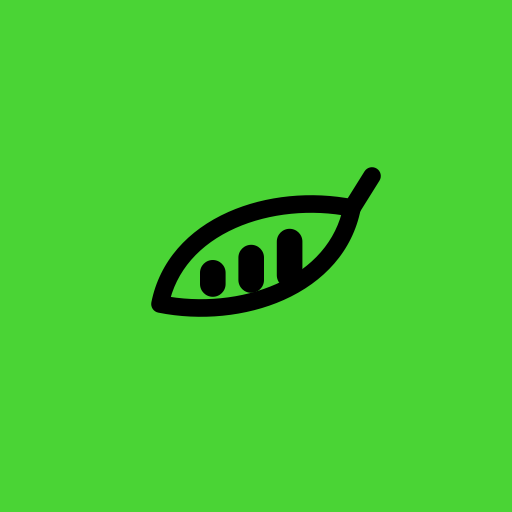
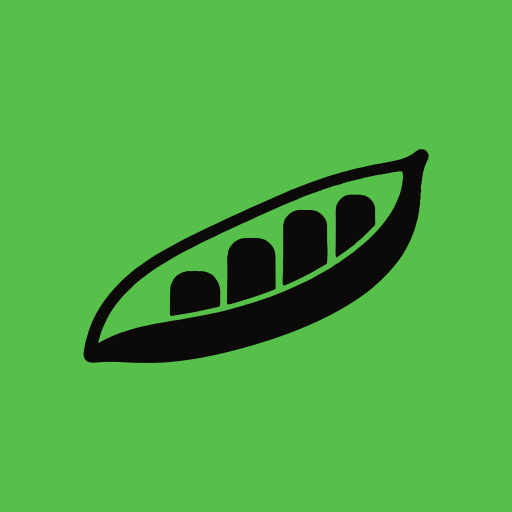
feat(ui): a brand derived from the artwork, not from a default
The green was a fully saturated #4ad435 on a pure black page, which is the
most common look in generated design and was a default wearing the costume
of a decision. The logo artwork is the only place the brand was ever drawn,
and it sits at 41% saturation against the interface's 65%.

Saturation comes down to 48%, toward the artwork. Hue is unchanged, because
moving it to the logo's 140 would sit 17 degrees from the protein green and
the two would fight. Black text on it still clears 9:1.

The page moves off pure neutral to #0c0a09. The surfaces were already warmed
on the argument that a cold grey reads as screen and a warm one reads as
printed stock; the page those panels sat on was left neutral. White on it is
19.8:1, so nothing legible stops being legible.

Also here:
- BrandMark carries the real artwork rather than a redraw of it, cropped to
  its own bounds (it occupied 65% of a square canvas) and taking currentColor
- Fats move from orange to yellow: 54 degrees from the error red where orange
  left 31, and the older convention for fat
- Warning moves to orange so it is not 10 degrees from fats
- bg-secondary, shadow-success and text-danger emitted nothing at all; three
  more undefined tokens of the same class as text-muted-foreground
- The CSP kept Google Fonts permissions after the font was self-hosted

Changed region(s): [[0.1562, 0.2812, 0.8438, 0.7188]]

diff --git a/frontend/src/components/layout/BrandMark.tsx b/frontend/src/components/layout/BrandMark.tsx
@@ -6,53 +6,28 @@ interface BrandMarkProps {
 }
 
 /**
- * The pod with rising peas — the same three bars the macro row draws, which is
- * the interface compressed into 32px. Flat and single-colour: the previous
- * mark was a 583 KB gradient PNG on a diagonal axis, in a system whose own
- * comments ban gradients, and it collapsed into a smear at favicon size.
+ * The MacroTrackr pea pod — the actual artwork, not a redraw of it.
  *
- * `currentColor` so it inherits the brand token rather than hardcoding a hex,
- * and so it can render black on a green maskable tile.
+ * Two earlier passes over this file each changed the drawing while trying to
+ * fix the format, and the drawing was never the problem: a 583 KB gradient PNG
+ * was. This is the source path, with three things done to it and nothing else.
+ *
+ * 1. `currentColor` instead of the baked #3c9058, so the mark takes the brand
+ *    token and can render black on a green maskable tile.
+ * 2. The viewBox cropped to the artwork's own bounds (717x445 inside a 1095
+ *    square), so the mark fills the space it is given instead of sitting in
+ *    35% empty canvas.
+ * 3. The hairline stroke dropped — at 28px it only thickened the fill.
  */
 const BrandMark: React.FC<BrandMarkProps> = ({ className, title }) => (
   <svg
-    viewBox="0 0 32 32"
-    fill="none"
+    viewBox="181 289 733 461"
     className={className}
     role={title ? "img" : undefined}
     aria-hidden={title ? undefined : true}
     aria-label={title}
   >
-    <path
-      d="M4 22C6 12 18 8 28 10C26 20 14 24 4 22Z"
-      fill="none"
-      stroke="currentColor"
-      strokeWidth="2.2"
-      strokeLinejoin="round"
-    />
-    <path
-      d="M28 10L30.5 6"
-      stroke="currentColor"
-      strokeWidth="2.2"
-      strokeLinecap="round"
-    />
-    <rect x="9" y="16.5" width="3.2" height="4.6" rx="1.6" fill="currentColor" />
-    <rect
-      x="13.8"
-      y="14.6"
-      width="3.2"
-      height="6"
-      rx="1.6"
-      fill="currentColor"
-    />
-    <rect
-      x="18.6"
-      y="12.6"
-      width="3.2"
-      height="7.4"
-      rx="1.6"
-      fill="currentColor"
-    />
+    <path d="M886.77 298.42C889.15 297.85 892.92 297.66 895.3 298.28C900.6 299.67 906.19 306.98 905.75 312.43C905.69 313.23 905.17 313.8 905.01 314.56C904.82 315.48 904.96 316.43 904.73 317.33C904.12 319.64 902.45 321.89 901.52 324.11C900.34 326.96 899.18 329.86 898.08 332.74C897.01 335.55 896.42 338.39 895.69 341.28C895.24 343.04 894.22 344.74 893.89 346.54C893.72 347.46 893.97 348.41 893.78 349.35C893.63 350.14 893.05 350.71 892.92 351.54C892.72 352.81 893.05 354.05 892.79 355.34C892.62 356.14 892.03 356.68 891.9 357.54C891.68 359.17 892.31 360.83 892.03 362.48C891.84 363.6 891.09 364.41 890.91 365.54C890.71 366.84 891.18 368.18 891.01 369.49C890.82 370.93 889.98 372.06 889.77 373.5C889.14 377.74 890.35 382.22 890.02 386.5C889.88 388.3 889.09 389.76 888.84 391.5C888.42 394.46 889.29 397.51 888.89 400.49C888.7 401.89 887.99 403.09 887.82 404.5C887.52 407.15 888.33 409.86 887.89 412.51C887.72 413.57 887.11 414.43 886.95 415.5C886.77 416.8 887.04 418.11 886.81 419.42C886.62 420.51 886.05 421.37 885.93 422.5C885.8 423.82 886.19 425.16 886 426.48C885.84 427.59 885.21 428.44 885.03 429.54C884.88 430.5 885.17 431.5 885.01 432.47C884.87 433.3 884.33 433.91 884.17 434.7C883.99 435.62 884.21 436.56 884.02 437.47C883.85 438.29 883.32 438.9 883.15 439.69C882.94 440.6 883.11 441.52 882.91 442.44C882.47 444.5 881.57 446.51 881.07 448.56C874.83 474 864.26 496.65 850.42 518.96C847.05 524.4 842.83 529.37 838.93 534.43C831.26 544.39 823.03 553.75 814.04 562.55C801.91 574.41 789.42 586.16 775.79 596.31C757.21 610.16 737.44 622.42 717.18 633.65C667.14 661.4 613.29 682.42 558.67 699.25C495.78 718.63 432.63 733.92 367 739.66C346.54 741.45 326.04 741.64 305.5 741.11C301.18 741 296.81 741.26 292.5 740.98C274.23 739.78 255.84 738.95 237.5 739.15C230.92 739.22 224.12 739.72 217.57 740.38C208.52 741.3 198.03 741.91 192.41 733.09C187.74 725.76 190.36 717.27 191.66 709.42C192.16 706.43 192.46 703.45 193.01 700.46C193.34 698.67 194.11 696.95 194.57 695.2C196.35 688.4 198.39 681.77 200.47 675.03C211.18 640.3 235.58 604.26 261.33 578.82C263.19 576.98 264.83 574.94 266.64 573.05C271.95 567.48 277.98 562.32 283.88 557.41C289.72 552.55 295.3 547.29 301.59 543.03C311.9 536.06 321.8 528.54 332.3 521.82C346.53 512.73 361.46 504.84 376.22 496.74C384.82 492.02 393.38 487.01 402.17 482.65C417.99 474.8 433.87 467.1 449.76 459.35C453.18 457.68 456.86 456.51 460.24 454.77C472.21 448.6 484.68 443.22 496.76 437.32C503.11 434.21 509.93 431.96 516.28 428.8C529.99 421.99 544.14 415.68 558.27 409.79C568.04 405.73 577.48 400.9 587.25 396.83C598.47 392.15 609.52 387.05 620.68 382.24C624.47 380.61 628.43 379.3 632.28 377.81C643.62 373.43 654.9 368.8 666.4 364.89C679.56 360.42 692.51 355.41 705.83 351.44C708.98 350.5 712.17 349.78 715.33 348.9C719.12 347.85 722.86 346.26 726.68 345.33C728.58 344.86 730.56 344.67 732.45 344.1C740.71 341.61 749.23 339.22 757.71 337.41C761.9 336.51 766.19 335.91 770.35 334.95C778.11 333.16 785.98 331.04 793.83 329.49C799 328.47 804.3 328.25 809.46 327.11C810.26 326.94 810.89 326.42 811.66 326.24C812.9 325.97 814.18 326.05 815.43 325.82C824.79 324.16 834.19 322.06 843.45 319.94C852.91 317.76 862.58 313.41 871.03 308.55C876.41 305.45 880.46 299.92 886.77 298.42ZM850.91 344.5C848.34 343.97 845.3 343.55 842.61 344.07C841.52 344.28 840.66 344.84 839.5 344.99C837.88 345.19 836.22 344.97 834.6 345.23C830.51 345.9 826.44 347.06 822.38 347.76C820.83 348.03 819.23 347.8 817.69 348.16C816.89 348.35 816.3 348.9 815.47 349.07C814.23 349.31 812.92 348.97 811.69 349.22C810.56 349.45 809.63 350.31 808.47 350.53C807.6 350.69 806.42 350.24 805.55 350.38C804.27 350.59 802.86 350.8 801.55 351.03C800.77 351.17 800.15 351.64 799.39 351.79C797.83 352.09 796.27 351.84 794.73 352.13C794.23 352.23 793.84 352.66 793.35 352.8C790.07 353.78 786.5 353.88 783.18 354.63C782.18 354.86 781.26 355.39 780.26 355.6C777.71 356.14 775.06 356.3 772.54 356.92C770.46 357.43 768.45 358.39 766.39 358.91C756.23 361.44 745.87 363.72 735.74 366.12C730.57 367.34 725.72 369.91 720.57 371.35C716.68 372.45 712.63 373.18 708.73 374.12C706.28 374.7 703.81 375.98 701.36 376.76C698.61 377.63 695.91 378.76 693.17 379.57C690.4 380.39 687.36 380.96 684.74 382.18C683.9 382.56 683.29 383.22 682.42 383.55C681.35 383.97 679.93 383.97 678.8 384.37C676.18 385.29 673.72 386.73 671.05 387.5C661.86 390.15 652.69 393.72 643.73 397.15C639.73 398.68 636.1 400.99 632.16 402.64C630.73 403.24 629.09 403.44 627.71 404.14C627.02 404.49 626.54 405.11 625.85 405.45C623.98 406.35 621.73 406.58 619.79 407.34C613.19 409.9 606.6 412.69 600.16 415.62C584.1 422.95 567.78 429.91 551.75 437.18C543.53 440.9 535.53 445.09 527.28 448.76C524.47 450.01 521.45 450.79 518.7 452.16C505.03 459.01 490.91 464.99 477.06 471.54C470.11 474.82 463.36 478.8 456.3 481.8C448.75 485.02 441.14 488.61 433.78 492.29C427.38 495.48 421.3 499.34 414.84 502.37C395.33 511.53 376.46 522.18 358.31 533.77C355.86 535.33 353.15 536.57 350.66 538.09C341.43 543.72 332.46 549.83 323.82 556.27C313.56 563.92 302.46 571.99 293.16 580.75C291.99 581.85 291.13 583.31 289.91 584.42C267.45 604.68 247.23 629.5 234.77 657.25C230.5 666.79 226.28 676.09 223.63 686.2C222.47 690.6 220.41 695.2 220.5 699.76C223.97 698.71 227 696.38 230.25 694.67C236.87 691.2 243.75 688.06 250.61 685.09C259.93 681.06 269.61 677.55 279.35 674.74C289.42 671.83 299.42 668.33 309.67 666.17C320.93 663.81 332.26 661.02 343.53 658.99C348.71 658.05 354.01 657.54 359.21 656.57C365.26 655.44 371.36 654.08 377.47 653.15C379.37 652.87 381.32 652.94 383.22 652.58C411.22 647.33 439.38 642.73 467.26 636.68C484.24 632.99 500.99 627.93 517.72 623.22C555.28 612.67 592.29 599.74 627.67 583.13C642.06 576.38 656.9 570.17 670.72 562.29C672.42 561.32 673.94 560.04 675.64 559.09C684.4 554.17 693.42 549.75 701.96 544.47C705.84 542.07 709.32 539.1 713.1 536.6C715.73 534.86 718.74 533.67 721.33 531.83C729.31 526.14 737.23 520.47 745.11 514.63C746.28 513.77 747.68 513.22 748.84 512.33C752.22 509.73 755.16 506.56 758.53 503.99C788.21 481.32 814.83 452.3 833.45 419.89C835.91 415.6 837.5 410.63 839.62 406.15C843.37 398.23 846.59 389.8 848.61 381.23C849.21 378.71 849.37 376.02 850.04 373.53C850.33 372.47 850.91 371.55 851.08 370.47C851.32 368.85 850.74 367.15 851.02 365.53C851.22 364.41 851.95 363.59 852.15 362.47C852.64 359.73 852.57 351.31 852.13 348.53C851.93 347.21 851.28 345.8 850.91 344.5ZM713.5 522.29C711.67 514.15 712.89 503.97 712.92 495.5C712.98 478.83 713.04 462.17 713.11 445.5C713.14 435.99 711.6 421.14 715.21 412.69C718.62 404.68 726.56 395.95 735.12 393.55C741.48 391.76 747.97 392.26 754.5 392.24C762.57 392.21 770.9 392.41 778.16 396.39C786.75 401.11 793.12 409.94 794.53 419.82C794.84 422.02 794.5 424.29 794.54 426.5C794.61 430.53 794.66 434.47 794.54 438.5C794.43 442.13 795.41 452.19 794.44 454.98C793.76 456.92 790.94 458.6 789.55 460.06C785.15 464.69 780.85 469.31 776.1 473.57C772.94 476.4 770.24 479.75 767.05 482.57C764.21 485.08 761.02 487.24 758.13 489.66C755.63 491.75 753.57 494.48 750.95 496.47C744.91 501.07 738.8 505.62 732.65 510.08C728.37 513.19 724.08 516.26 719.68 519.19C718.34 520.08 717.04 521.61 715.46 522.06C714.83 522.24 714.14 522.15 713.5 522.29ZM694.5 535.4C672.94 548.56 650.82 560.94 627.75 571.32C622.7 573.59 617.77 576.05 612.65 578.19C609.17 579.65 607.74 581.02 603.92 580.5C600.89 570.43 604.05 556.2 603.65 545.56C603.47 540.91 603.25 536.19 603.43 531.5C603.51 529.49 603.93 527.54 603.9 525.5C603.71 512.19 603.92 498.83 603.93 485.5C603.94 478.5 603.96 471.5 603.97 464.5C603.97 461.03 603.48 457.01 604.15 453.62C604.3 452.88 604.84 452.2 605.03 451.45C605.68 448.92 605.93 446.04 607.2 443.65C608.29 441.59 610.11 439.84 611.46 437.92C616.16 431.29 622.72 427.17 630.52 424.86C636.71 423.02 644.1 424.1 650.5 424.09C656.8 424.08 663.26 423.63 669.38 425.26C681.22 428.41 692.78 440.28 694.65 452.66C695.33 457.16 694.95 461.96 694.93 466.5C694.9 474.51 695.19 482.57 695.09 490.5C695.04 494.86 695.67 499.2 695.88 503.53C696.16 509.18 695.95 514.9 695.57 520.5C695.22 525.48 695.77 530.52 694.5 535.4ZM587.91 587.5C585.51 589.66 582.72 590.22 579.79 591.43C574.52 593.6 569.18 595.47 563.81 597.42C547.61 603.28 531.31 608.58 514.78 613.37C506.46 615.78 498.1 619.1 489.5 620.11C488.69 619.24 487.89 618.65 487.48 617.48C486.79 615.45 487.31 610.21 487.35 607.97C487.51 599.49 487.65 591 487.69 582.5C487.73 573.17 488.12 563.83 488.09 554.5C488.06 546.5 487.92 538.5 487.92 530.5C487.92 527.27 487.5 523.72 487.98 520.52C488.1 519.71 488.57 519.06 488.7 518.27C489.49 513.18 489.33 509.98 491.48 504.94C493.05 501.29 495.42 498.39 498 495.46C500.91 492.15 503.77 489.35 507.75 487.3C510.61 485.82 513.58 484.03 516.75 483.33C524.57 481.62 532.48 482.14 540.5 482.07C548.73 482.01 554.95 482.03 562.82 484.63C566.67 485.9 569.96 487.98 573 490.54C577.83 494.61 582.38 499.64 584.9 505.6C588.25 513.52 587.99 522.1 587.96 530.5C587.93 538.83 588 547.17 588.04 555.5C588.09 566.12 588.68 576.91 587.91 587.5ZM472.5 623.22C470.05 625.46 466.91 625.65 463.76 626.36C457.44 627.79 451.17 629.17 444.8 630.48C434.34 632.62 424 635.27 413.49 637.05C407.21 638.12 400.85 639.03 394.56 640.26C388.54 641.44 382.58 642.21 376.54 643.17C374.33 643.52 372.82 644 370.5 643.88C368.08 640.92 368.88 637.18 368.86 633.5C368.82 625.84 368.8 618.16 368.92 610.5C369.02 604.78 369.21 599.16 369.69 593.5C369.89 591.13 369.45 588.84 369.53 586.5C369.62 584.02 370.45 581.04 371.18 578.67C371.99 576.06 373.69 573.76 374.85 571.31C375.77 569.38 376.63 567.26 377.97 565.57C379.69 563.41 384.53 558.58 386.92 557.48C387.89 557.03 388.95 556.83 389.89 556.34C390.7 555.91 391.34 555.1 392.19 554.66C395.09 553.13 398.25 552.78 401.28 551.85C401.63 551.74 402.29 551.22 402.65 551.14C406.75 550.32 411.35 551.02 415.5 550.97C416.87 550.96 418.17 550.47 419.49 550.43C422.4 550.33 425.55 550.87 428.5 551C431.14 551.12 433.89 550.72 436.5 550.98C443.53 551.66 453.83 555.53 459.02 560.47C461.14 562.49 462.54 564.98 464.31 567.23C469.19 573.43 471.83 580.68 473 588.52C473.76 593.63 473.06 599.33 473.07 604.5C473.08 610.64 473.76 617.26 472.5 623.22Z" fill="currentColor" fillRule="evenodd" />
   </svg>
 );
 

diff --git a/frontend/src/style.css b/frontend/src/style.css
@@ -19,18 +19,30 @@
      earns its keep on a near-black page, which is why it was reached for — so
      the hue moves rather than the decision.
 
-     #1ed760 sits at hue 141°: a mint, leaning blue. This sits at 112°:
-     chlorophyll, the colour of the food rather than of an app. Luminance is
-     matched deliberately (10.8:1 on black against the old 10.9:1) so it carries
-     the same weight in the same places, and black text on it clears 4.5:1 for
-     the same reason. */
-  --color-primary: #4ad435;
+     #1ed760 sits at hue 141°: a mint, leaning blue. This sits at 113°:
+     chlorophyll, the colour of the food rather than of an app.
+
+     Saturation came down from 65% to 48%, toward the 41% of the logo artwork,
+     which is the only place the brand was ever actually drawn. Two reasons.
+     The artwork and the interface disagreed by 24 points, and the artwork wins
+     that argument. And a fully saturated green on a pure black page is the
+     single most common look in generated design; it was a default wearing the
+     costume of a decision. Hue is unchanged, because moving it toward the
+     logo's 140° would sit 17° from the protein green and the two would fight.
+
+     Black text on it clears 9:1, so primary buttons keep their contrast. */
+  --color-primary: #57c04a;
 
   /* Surfaces – four opaque steps, each meaning one thing.
      Warmed off neutral by a few points of red: against a yellow-green accent a
      cold grey reads as screen, a warm one reads as printed stock. The step
      sizes are unchanged, so every contrast decision built on them still holds. */
-  --color-background: #000000; /* page — recedes, and OLED-black on a phone */
+  /* Warm near-black rather than #000. The surfaces below were already warmed
+     on the argument that a cold grey reads as screen and a warm one reads as
+     printed stock, and then the page those panels sit on was left pure
+     neutral. This continues the same ramp downward at the same hue. White on
+     it is 19.8:1, so nothing that was legible stops being legible. */
+  --color-background: #0c0a09;
   --color-surface: #141211; /* panels, bars */
   --color-surface-2: #1b1917; /* rows, inputs — interactive */
   --color-surface-3: #2b2724; /* active control — selected */
@@ -57,16 +69,32 @@
   --text-muted: #aba49c;
   --text-hint: rgba(255, 255, 255, 0.35);
 
-  /* Macros — no macro is green, and none of them is the error red either:
-     a macronutrient should not look like a failure. Contrast on #000:
-     violet 7.7:1, blue 8.3:1, orange 7.5:1. */
-  --color-protein: #a78bfa;
+  /* Macros — the two collisions worth breaking, and no more.
+     Protein was #1ed760 (byte-identical to the brand green) and fats was
+     #ef4444 (byte-identical to the error red), so protein read as "primary
+     action" and fats read as "something is wrong". Eating fat is not an error.
+
+     Protein stays green, because that is what a decade of trackers has taught
+     people to read — but emerald at 158° rather than the brand's yellow-green
+     at 112°, which is 46° of separation and legible side by side. Carbs stay
+     blue.
+
+     Fats are yellow, not orange and not red. Yellow is the older and more
+     literal convention — butter, oil, egg yolk — and it puts 54° between fats
+     and the error red, where orange left only 31°. It also reads as a distinct
+     third hue at a 6px dot, which orange beside a green did not.
+     Contrast on #000: emerald 10.9:1, blue 8.3:1, yellow 13.7:1. */
+  --color-protein: #34d399;
   --color-carbs: #60a5fa;
-  --color-fats: #f97316;
+  --color-fats: #facc15;
 
   /* Feedback — success is the brand green, deliberately: one green. */
-  --color-success: #4ad435;
-  --color-warning: #f59e0b;
+  --color-success: #57c04a;
+  /* Warning moves to orange so it is not 10° from the fats yellow. Fats is on
+     every macro row and every chart; warning appears in a handful of transient
+     states — so the frequent one keeps the conventional hue and the rare one
+     moves. */
+  --color-warning: #f97316;
   --color-error: #e91429;
 
   /* Shadows – only the modal casts one; nothing is darker than the page */

diff --git a/frontend/src/features/landing/components/remotion/DashboardAnimation.tsx b/frontend/src/features/landing/components/remotion/DashboardAnimation.tsx
@@ -12,7 +12,7 @@ const POSITIONS = {
 const MACRO_COLORS = {
   protein: "#10b981",
   carbs: "#3b82f6",
-  fats: "#f59e0b",
+  fats: "#facc15",
 } as const;
 
 const CURSOR_EASE = Easing.out(Easing.quad);
@@ -188,7 +188,7 @@ export const DashboardAnimation: React.FC = () => {
                 </div>
                 <div
                   className="flex h-8 w-20 items-center justify-center rounded-control"
-                  style={{ backgroundColor: '#4ad435', transform: `scale(${interpolate(searchButtonClick, [0, 0.5, 1], [1, 0.95, 1])})` }}
+                  style={{ backgroundColor: '#57c04a', transform: `scale(${interpolate(searchButtonClick, [0, 0.5, 1], [1, 0.95, 1])})` }}
                 >
                   <div className="h-3 w-12 rounded-control bg-surface-3" />
                 </div>
@@ -226,7 +226,7 @@ export const DashboardAnimation: React.FC = () => {
               </div>
 
               <div className="grid grid-cols-3 gap-3">
-                {["#4ad435", "#3b82f6", "#ef4444"].map((color, index) => (
+                {["#57c04a", "#3b82f6", "#ef4444"].map((color, index) => (
                   <div key={index} className="rounded-control border border-border bg-surface-2 p-2">
                     <div className="mb-1.5 flex items-center gap-1.5">
                       <div className="h-1.5 w-1.5 rounded-full" style={{ backgroundColor: color }} />
@@ -250,7 +250,7 @@ export const DashboardAnimation: React.FC = () => {
                 <div className="h-3 w-24 rounded-control bg-surface-3" />
                 <div
                   className="flex h-7 w-20 items-center justify-center rounded-control"
-                  style={{ backgroundColor: '#4ad435', transform: `scale(${interpolate(addEntryClick, [0, 0.5, 1], [1, 0.95, 1])})` }}
+                  style={{ backgroundColor: '#57c04a', transform: `scale(${interpolate(addEntryClick, [0, 0.5, 1], [1, 0.95, 1])})` }}
                 >
                   <div className="h-3 w-12 rounded-control bg-surface-3" />
                 </div>

diff --git a/frontend/src/utils/chartColors.ts b/frontend/src/utils/chartColors.ts
@@ -9,20 +9,25 @@ export interface ColorPalette {
 }
 
 // Macro color palette — the same three hues the tokens declare, so a chart
-// series and its legend chip cannot drift apart. No macro is green: green is
-// the product.
+// series and its legend chip cannot drift apart.
+//
+// Protein is green because that is what every tracker's users already read it
+// as, but it is emerald (158°) rather than the brand's yellow-green (112°): the
+// two collisions worth breaking were protein being byte-identical to the brand
+// green and fats being byte-identical to the error red. Convention is kept; the
+// double meanings are not.
 export const MACRO_COLORS: ColorPalette = {
   protein: {
-    base: "#a78bfa", // --color-protein
-    gradient: ["#8b5cf6", "#a78bfa"],
+    base: "#34d399", // --color-protein
+    gradient: ["#10b981", "#34d399"],
   },
   carbs: {
     base: "#60a5fa", // --color-carbs
     gradient: ["#3b82f6", "#60a5fa"],
   },
   fats: {
-    base: "#f97316", // --color-fats
-    gradient: ["#ea580c", "#f97316"],
+    base: "#facc15", // --color-fats
+    gradient: ["#eab308", "#facc15"],
   },
 };
 
@@ -41,7 +46,7 @@ export const MEAL_COLORS: ColorPalette = {
     gradient: ["#ef4444", "#f87171"],
   },
   snack: {
-    base: "#a78bfa", // purple-400
+    base: "#a78bfa", // purple-400 — a meal type, unrelated to the macro tokens
     gradient: ["#8b5cf6", "#a78bfa"],
   },
 };

diff --git a/frontend/src/styles/global.css b/frontend/src/styles/global.css
@@ -104,6 +104,17 @@
   }
 }
 
+/* Drives the progress hairline under the active product-preview tab. Keyed on
+   the slide index in React, so it restarts with each advance. */
+@keyframes carousel-progress {
+  from {
+    transform: scaleX(0);
+  }
+  to {
+    transform: scaleX(1);
+  }
+}
+
 /* Respect reduced motion */
 @media (prefers-reduced-motion: reduce) {
   *,
@@ -122,12 +133,18 @@
   --sab: env(safe-area-inset-bottom, 0px);
   --sal: env(safe-area-inset-left, 0px);
   --sar: env(safe-area-inset-right, 0px);
-  --floating-notification-top: calc(16px + var(--sat));
-
   /* One number for the fixed AppHeader: its top inset (1rem) + its height
      (min-h-14 = 3.5rem) + the gap below it. PageShell is the only consumer. */
   --header-height: 3.5rem;
   --header-offset: calc(1rem + var(--sat) + var(--header-height) + 1.5rem);
+
+  /* Toasts clear the header rather than sharing its band. This was
+     `calc(16px + var(--sat))` — the header's own top inset — so every
+     notification rendered behind the bar it was aligned with. Declared after
+     --header-height because it reads it. */
+  --floating-notification-top: calc(
+    1rem + var(--sat) + var(--header-height) + 0.75rem
+  );
 }
 
 .safe-area-pt {

diff --git a/frontend/src/features/reporting/components/RecommendationsSection.tsx b/frontend/src/features/reporting/components/RecommendationsSection.tsx
@@ -61,25 +61,25 @@ export default function RecommendationsSection({
   const suggestions = [
     macroBalance.currentRatio !== "0/0/0" && {
       title: "Macro Split",
-      bgColor: "bg-purple-500/10 text-purple-400",
+      bgColor: "bg-surface-2 text-foreground",
       message: macroBalance.recommendations,
       icon: <BalanceIcon className="h-5 w-5" />,
     },
     averages.calories > 0 && {
       title: "Protein Share",
-      bgColor: "bg-primary/10 text-primary",
+      bgColor: "bg-surface-2 text-foreground",
       message: macroDensity.message,
       icon: <NutrientIcon className="h-5 w-5" />,
     },
     protein && {
       title: "Protein Intake",
-      bgColor: "bg-blue-500/10 text-blue-400",
+      bgColor: "bg-surface-2 text-foreground",
       message: protein,
       icon: <ProteinIcon className="h-5 w-5" />,
     },
     tracking && {
       title: "Tracking Gaps",
-      bgColor: "bg-emerald-500/10 text-emerald-400",
+      bgColor: "bg-surface-2 text-foreground",
       message: tracking,
       icon: <ClipboardIcon className="h-5 w-5" />,
     },

diff --git a/frontend/src/features/goals/components/weight-goals/WeightGoalForm.tsx b/frontend/src/features/goals/components/weight-goals/WeightGoalForm.tsx
@@ -330,7 +330,7 @@ const WeightGoalForm = forwardRef<WeightGoalFormHandle, WeightGoalFormProps>(
               disabled={Boolean(weightGoals)}
             />
             {fieldErrors.startingWeight && (
-              <p className="mt-1 text-sm text-red-500">
+              <p className="mt-1 text-sm text-error">
                 {fieldErrors.startingWeight}
               </p>
             )}
@@ -355,7 +355,7 @@ const WeightGoalForm = forwardRef<WeightGoalFormHandle, WeightGoalFormProps>(
               required
             />
             {fieldErrors.targetWeight && (
-              <p className="mt-1 text-sm text-red-500">
+              <p className="mt-1 text-sm text-error">
                 {fieldErrors.targetWeight}
               </p>
             )}

diff --git a/frontend/src/lib/clerkAppearance.ts b/frontend/src/lib/clerkAppearance.ts
@@ -14,7 +14,7 @@ export const clerkAppearance = {
     colorBorder: "#27272a",
     colorBorderSecondary: "#3f3f46",
     colorSuccess: "#22c55e",
-    colorWarning: "#f59e0b",
+    colorWarning: "#f97316",
     colorError: "#ef4444",
     colorInputBackground: "#1a1a22",
     colorInputBorder: "#27272a",
@@ -53,7 +53,7 @@ export const clerkAppearance = {
     // Badges
     badge: "rounded-full px-3 py-1 text-xs font-medium",
     badgeSuccess: "bg-[#22c55e]/20! text-[#22c55e]!",
-    badgeWarning: "bg-[#f59e0b]/20! text-[#f59e0b]!",
+    badgeWarning: "bg-[#f97316]/20! text-[#f97316]!",
     badgeDanger: "bg-[#ef4444]/20! text-[#ef4444]!",
     badgeNeutral: "bg-[#27272a]! text-[#a1a1aa]!",
     // Avatar

diff --git a/frontend/src/utils/chartColors.test.ts b/frontend/src/utils/chartColors.test.ts
@@ -11,7 +11,7 @@ describe("chartColors", () => {
   describe("MACRO_COLORS", () => {
     it("should have protein color defined", () => {
       expect(MACRO_COLORS.protein).toBeDefined();
-      expect(MACRO_COLORS.protein.base).toBe("#a78bfa");
+      expect(MACRO_COLORS.protein.base).toBe("#34d399");
     });
 
     it("should have carbs color defined", () => {
@@ -21,7 +21,7 @@ describe("chartColors", () => {
 
     it("should have fats color defined", () => {
       expect(MACRO_COLORS.fats).toBeDefined();
-      expect(MACRO_COLORS.fats.base).toBe("#f97316");
+      expect(MACRO_COLORS.fats.base).toBe("#facc15");
     });
   });
 

diff --git a/frontend/src/components/layout/LogoButton.tsx b/frontend/src/components/layout/LogoButton.tsx
@@ -33,7 +33,10 @@ const LogoButton: React.FC<LogoButtonProps> = ({
       compact ? "px-0" : "px-2"
     } ${className}`}
   >
-    <BrandMark className="h-7 w-7 shrink-0 text-primary sm:h-8 sm:w-8" />
+    {/* The mark is 1.59:1, so it is sized by height and left to find its own
+        width. Forcing it into a square box letterboxed it and made it read
+        smaller than the word beside it. */}
+    <BrandMark className="h-6 w-auto shrink-0 text-primary sm:h-7" />
     <span className="text-lg font-semibold tracking-tight text-foreground sm:text-xl">
       {APP_NAME}
     </span>

diff --git a/frontend/src/components/notifications/components/FloatingNotification.tsx b/frontend/src/components/notifications/components/FloatingNotification.tsx
@@ -122,14 +122,14 @@ function FloatingNotification({
   const styles = {
     success: {
       bg: "bg-gradient-to-r from-green-900/95 to-green-800/95",
-      border: "border-green-500/40",
+      border: "border-success/40",
       icon: "text-success",
       progress: "bg-success",
       component: <CheckIcon className="" />,
     },
     error: {
       bg: "bg-gradient-to-r from-red-900/95 to-red-800/95",
-      border: "border-red-500/40",
+      border: "border-error/40",
       icon: "text-error",
       progress: "bg-primary",
       component: <CloseIcon className="" />,

diff --git a/frontend/vite.config.ts b/frontend/vite.config.ts
@@ -85,8 +85,8 @@ export default defineConfig(({ command }) => {
                     url: "/reporting",
                   },
                 ],
-                background_color: "#000000",
-                theme_color: "#000000",
+                background_color: "#0c0a09",
+                theme_color: "#0c0a09",
                 // `any` and `maskable` are different drawings, not the same
                 // file declared twice: a maskable icon is cropped to a circle
                 // or squircle, so it needs its own safe padding.
